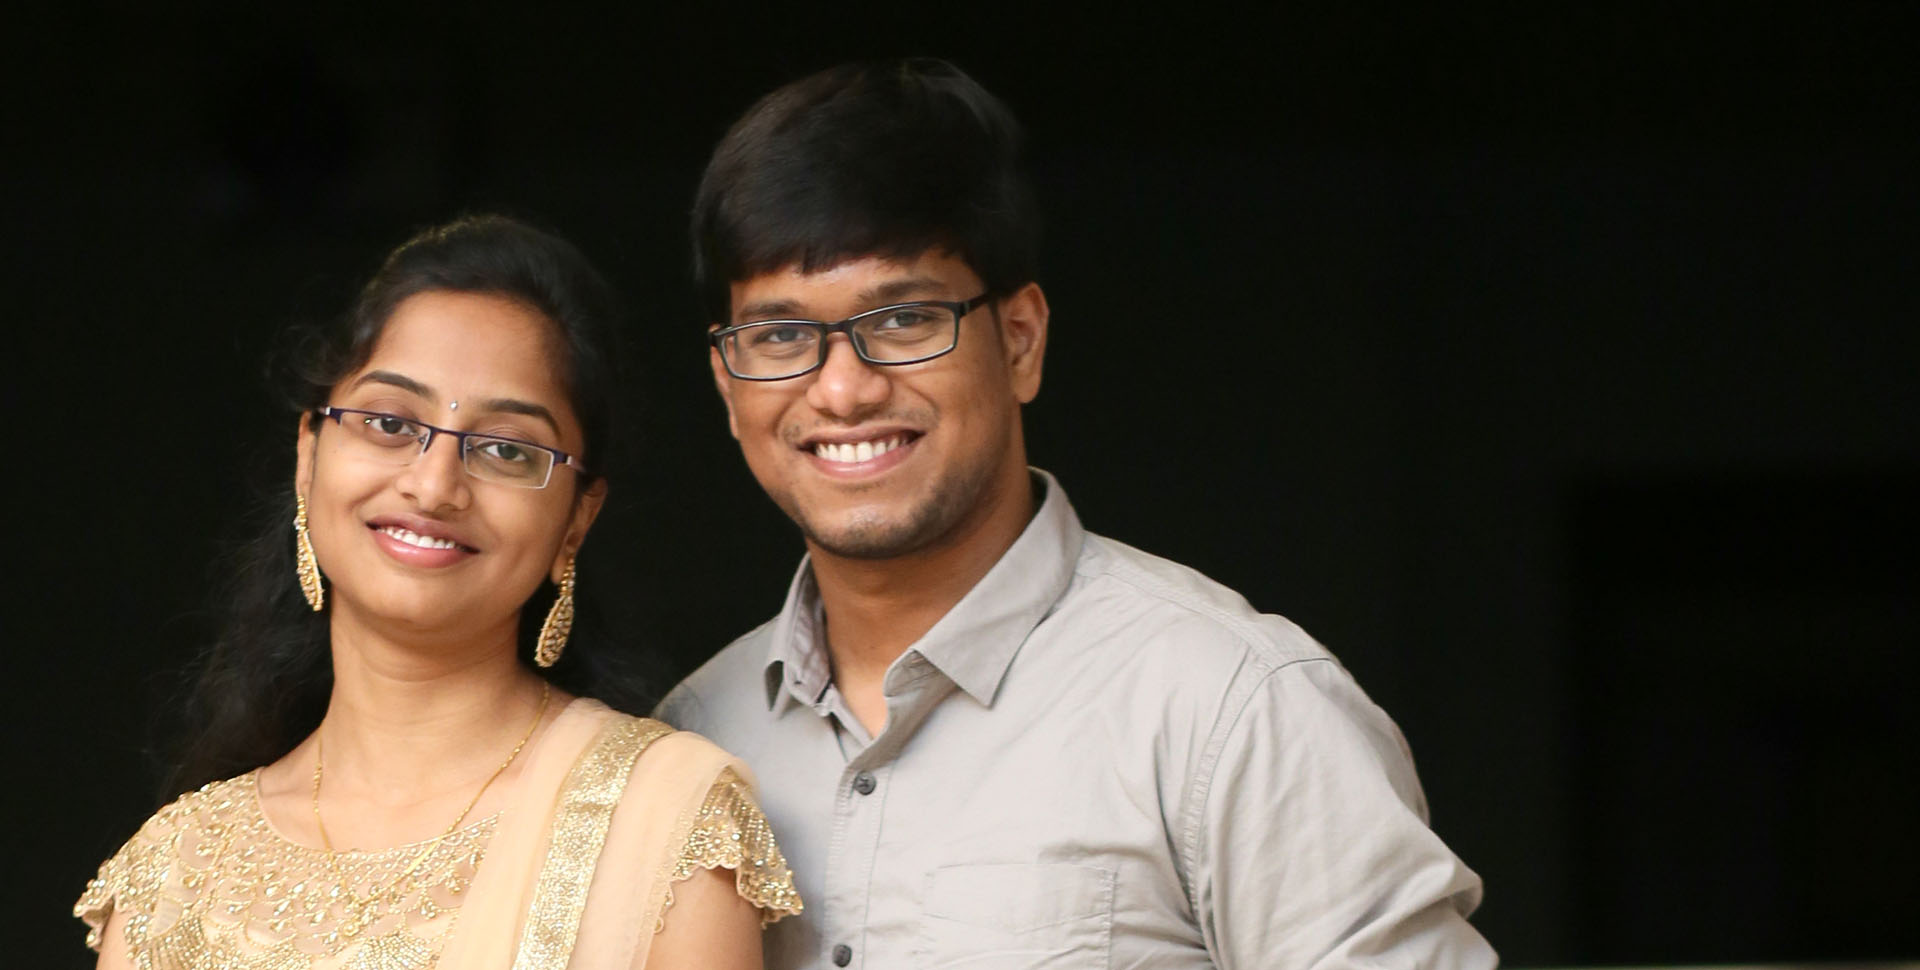
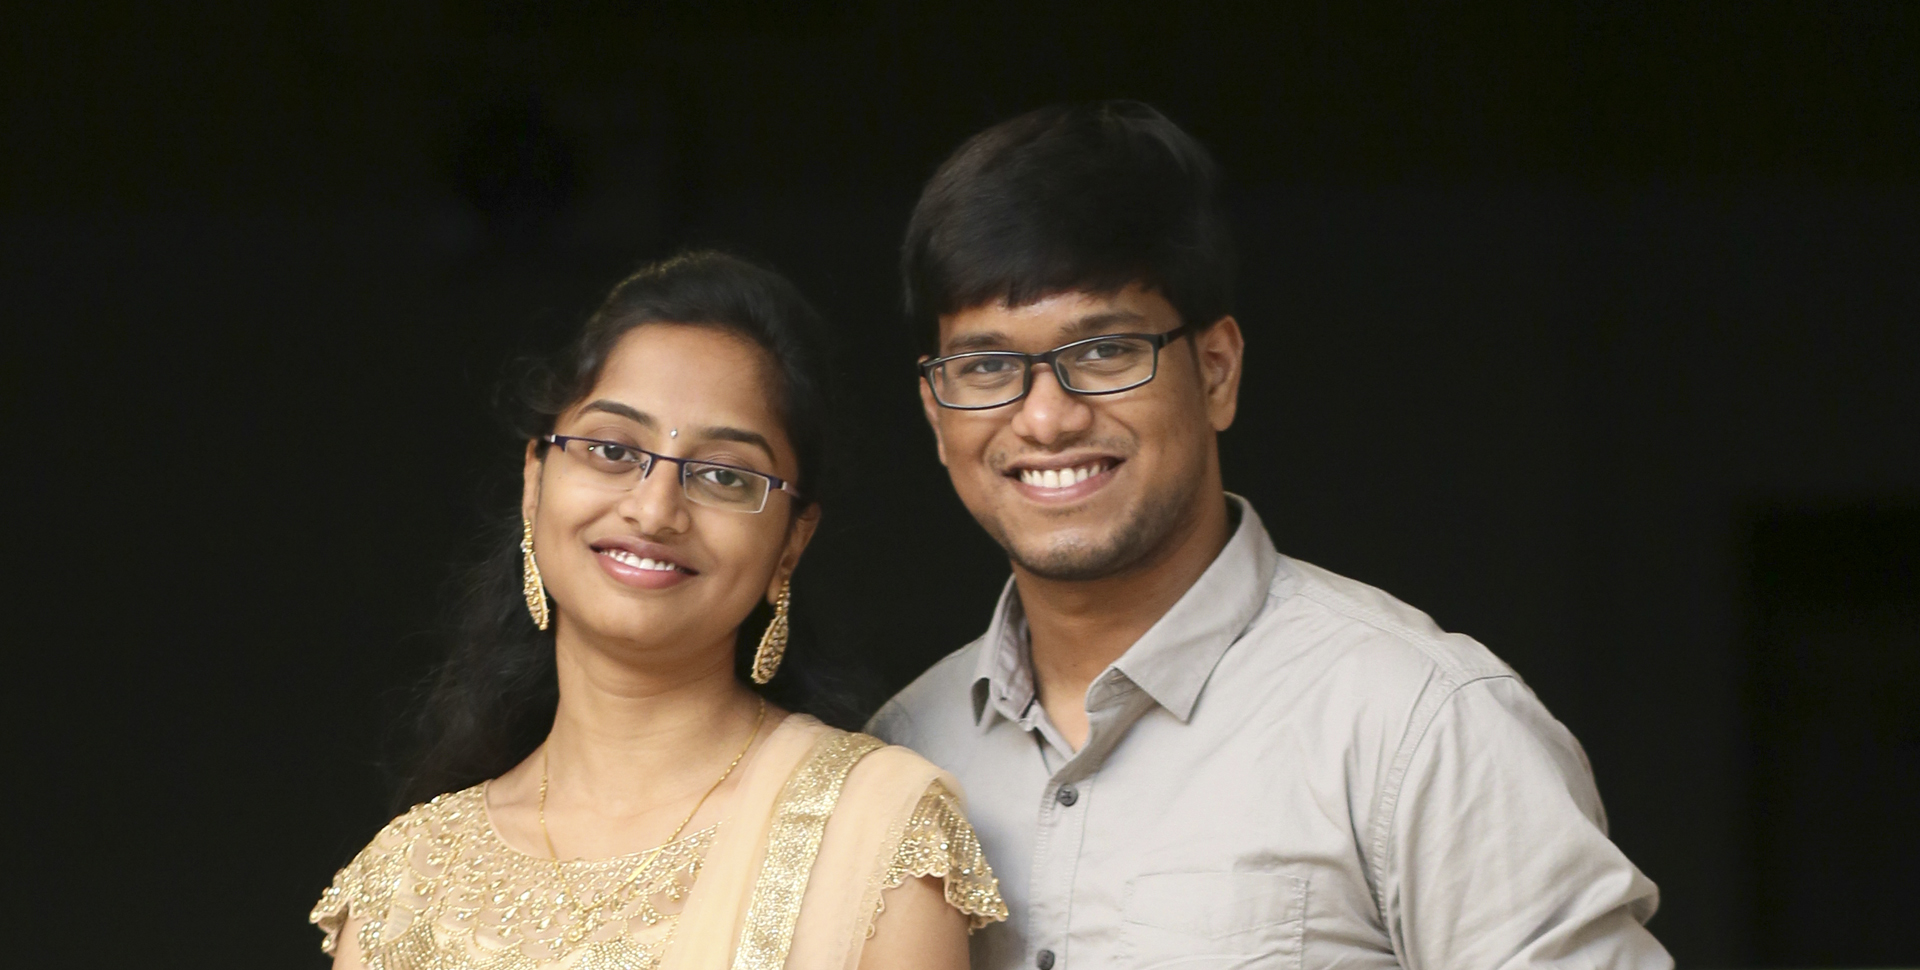
Testing Carousel

diff --git a/index.html b/index.html
@@ -88,11 +88,44 @@
 	
 	<!--HEADER-->
 	<div id="home">
-		<ul id="cbp-bislideshow" class="cbp-bislideshow">
+		<!--<ul id="cbp-bislideshow" class="cbp-bislideshow">
 			<li><img src="images/1.jpg" alt="image01"/></li>
 			<li><img src="images/2.jpg" alt="image02"/></li>
 			<li><img src="images/3.jpg" alt="image03"/></li>
-		</ul>
+		</ul>-->
+        <div id="myCarousel" class="carousel slide" data-ride="carousel">
+          <!-- Indicators 
+          <ol class="carousel-indicators">
+            <li data-target="#myCarousel" data-slide-to="0" class="active"></li>
+            <li data-target="#myCarousel" data-slide-to="1"></li>
+            <li data-target="#myCarousel" data-slide-to="2"></li>
+          </ol>-->
+
+          <!-- Wrapper for slides -->
+          <div class="carousel-inner">
+            <div class="item active">
+              <img src="images/1.jpg" alt="Los Angeles">
+            </div>
+
+            <div class="item">
+              <img src="images/2.jpg" alt="Chicago">
+            </div>
+
+            <div class="item">
+              <img src="images/3.jpg" alt="New York">
+            </div>
+          </div>
+
+          <!-- Left and right controls -->
+          <a class="left carousel-control" href="#myCarousel" data-slide="prev">
+            <span class="glyphicon glyphicon-chevron-left"></span>
+            <span class="sr-only">Previous</span>
+          </a>
+          <a class="right carousel-control" href="#myCarousel" data-slide="next">
+            <span class="glyphicon glyphicon-chevron-right"></span>
+            <span class="sr-only">Next</span>
+          </a>
+        </div>
 		<div class="container">
 			<div class="header animated tada">
 				<h1>Pranay & Mounika</h1>
